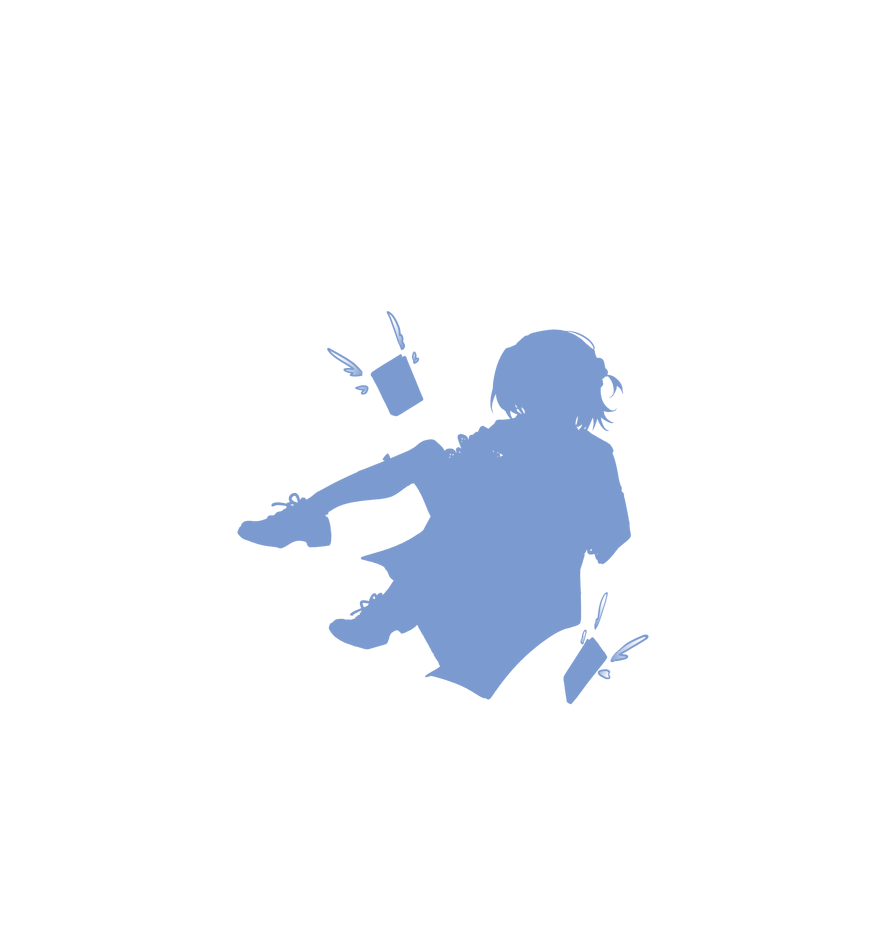
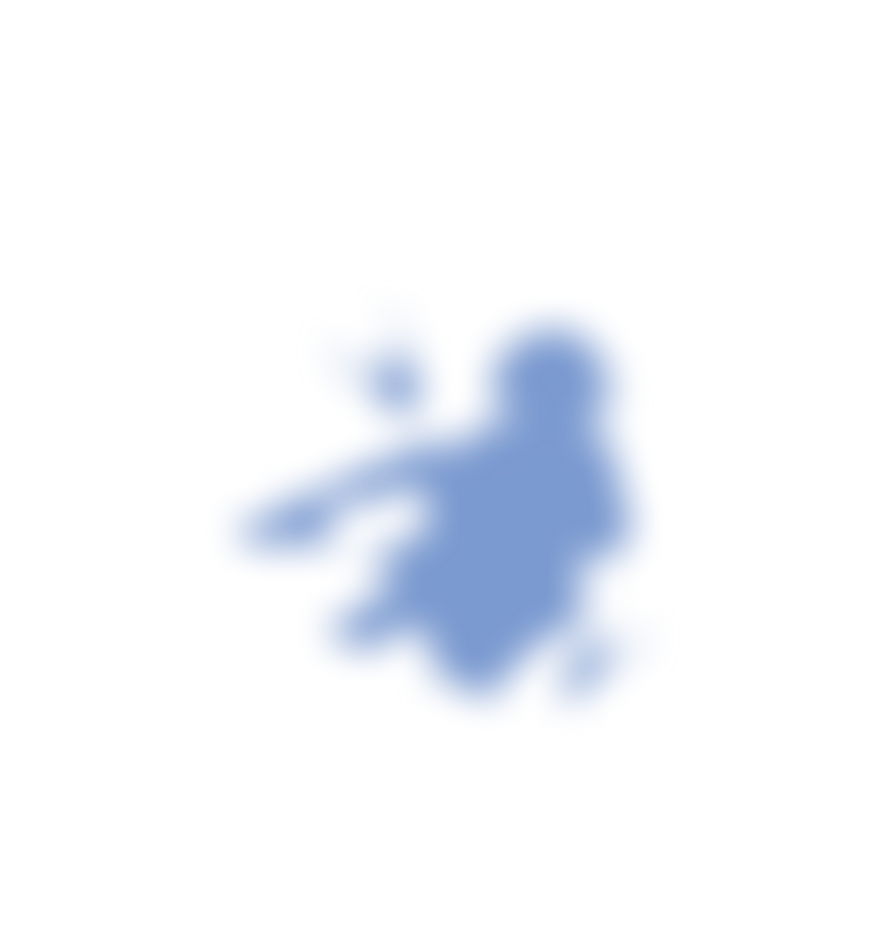
portrait shadow: blur the native shadow rasters like the web drop-shadow (sharp composites last, so the blur ran on the empty canvas and every shadow shipped as a hard silhouette 20pt under the art; sigma is half the CSS radius)

Changed region(s): [[0.246, 0.3049, 0.738, 0.7624]]

diff --git a/scripts/generate-mobile-portrait-glow.ts b/scripts/generate-mobile-portrait-glow.ts
@@ -140,7 +140,10 @@ async function writePortraitShadowRaster(
     .png({ compressionLevel: 9 })
     .toBuffer();
 
-  await sharp({
+  // sharp composites after every other operation of a pipeline, so the
+  // silhouette is placed in one pipeline and blurred in the next: blurring in
+  // the same one blurred only the empty canvas and shipped a hard silhouette.
+  const placed = await sharp({
     create: {
       background: { alpha: 0, b: 0, g: 0, r: 0 },
       channels: 4,
@@ -155,8 +158,15 @@ async function writePortraitShadowRaster(
         top: padding + NEMU_WEB_PORTRAIT_GLOW.shadow.translateY,
       },
     ])
-    .blur(NEMU_WEB_PORTRAIT_GLOW.shadow.blurRadius)
-    .png({ adaptiveFiltering: true, compressionLevel: 9, effort: 10 })
+    .png()
+    .toBuffer();
+
+  await sharp(placed)
+    // CSS drop-shadow's blur is a radius: the Gaussian's sigma is half of it.
+    .blur(NEMU_WEB_PORTRAIT_GLOW.shadow.blurRadius / 2)
+    // One colour at up to 256 alphas fits a palette exactly, so the palette
+    // PNG is lossless here (no dithering) and a third of the truecolor size.
+    .png({ adaptiveFiltering: true, colours: 256, compressionLevel: 9, dither: 0, effort: 10, palette: true })
     .toFile(resolve(assetsDirectory, filename));
 }
 

diff --git a/apps/mobile/src/lib/nemuPortraitHalo.test.ts b/apps/mobile/src/lib/nemuPortraitHalo.test.ts
@@ -347,7 +347,9 @@ describe("Nemu portrait halo motion", () => {
         compressedAssetBytes += statSync(assetPath).size;
       }
     }
-    expect(compressedAssetBytes).toBeLessThan(1_700_000);
+    // The blurred shadows add ~0.6 MB over the hard silhouettes the budget
+    // was first set against (their blur never ran).
+    expect(compressedAssetBytes).toBeLessThan(2_300_000);
     expect(1087 * 1195 * 4).toBeLessThan(5_300_000);
     expect(1087 * 1195 * 4 * 3).toBeLessThan(15_700_000);
     // Keep one logical-pixel raster per mask. Density siblings would either
